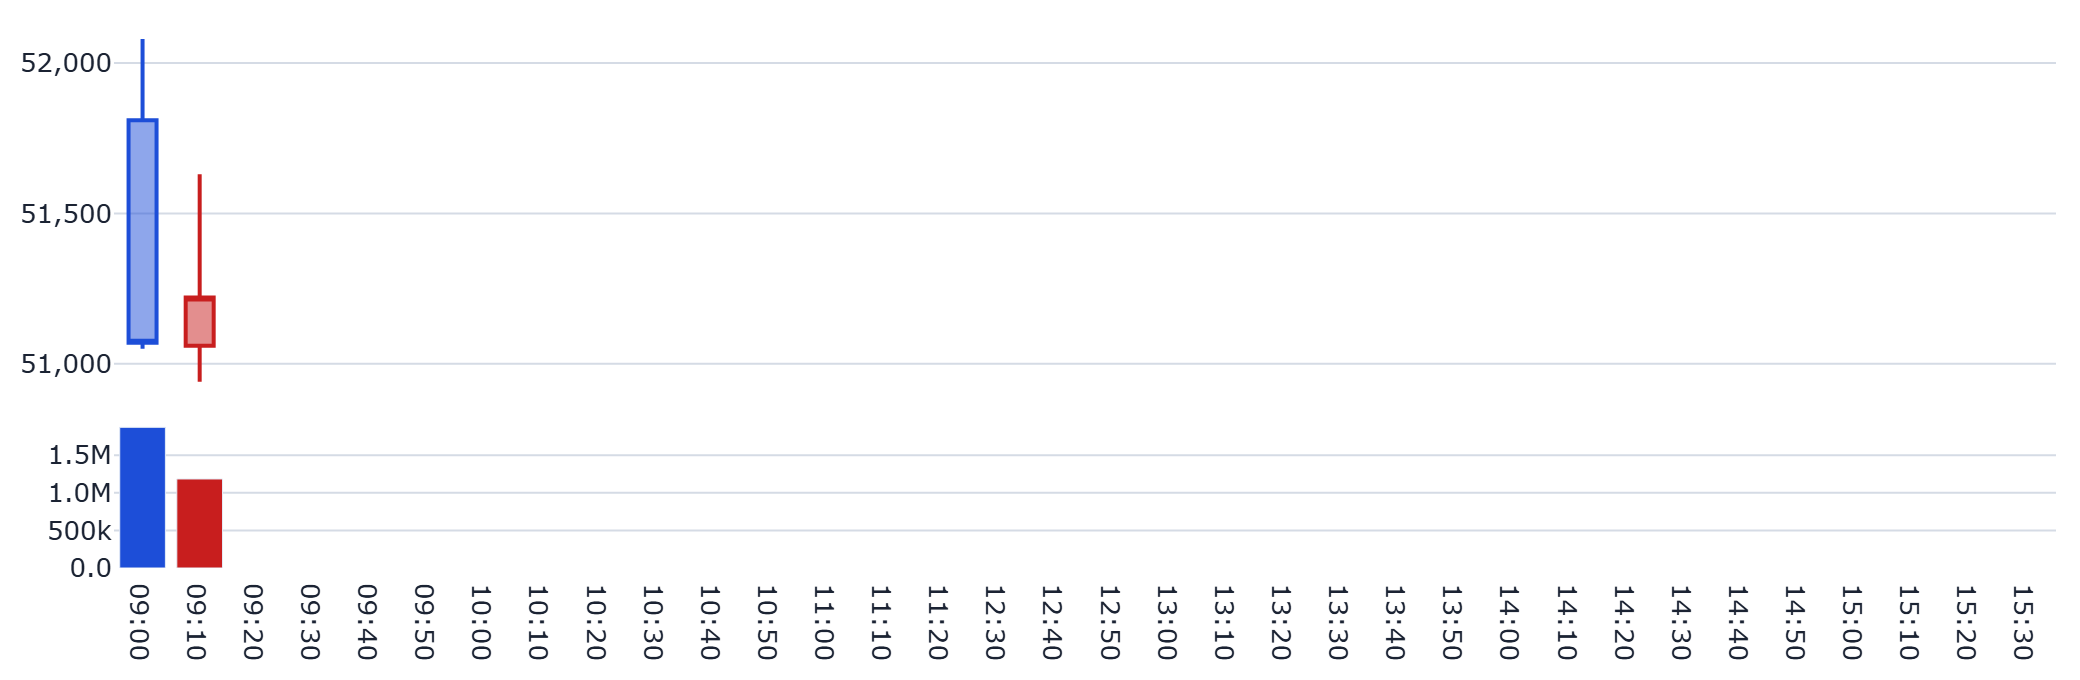
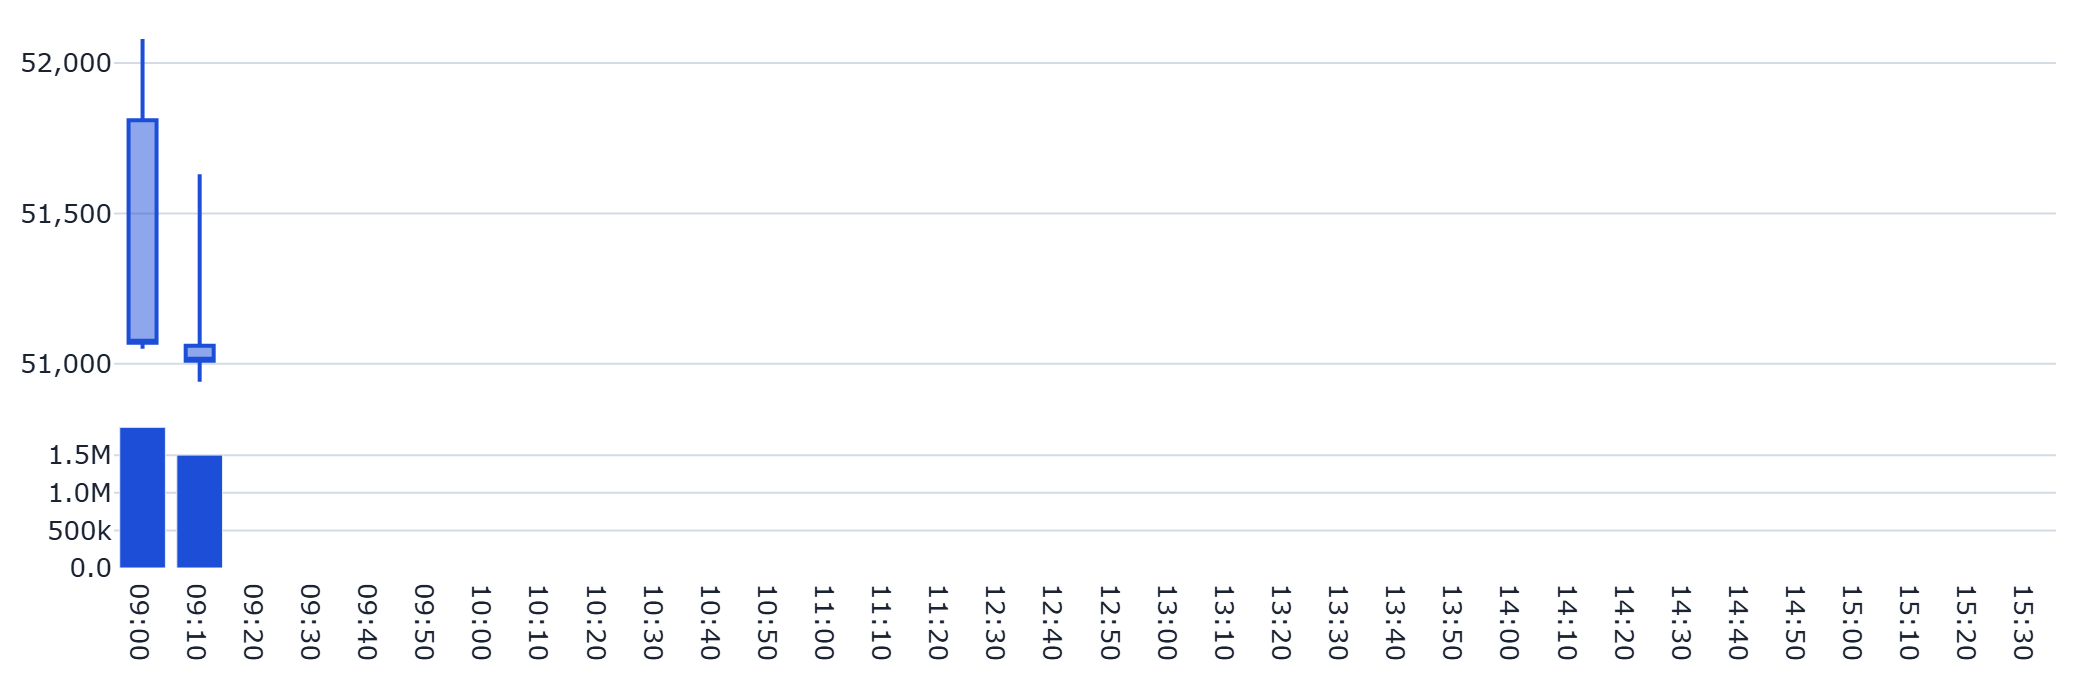
auto: refresh static dashboard (2026-09-17 09:18:49 JST)

Changed region(s): [[0.0625, 0.6485, 0.125, 0.8338], [0.0625, 0.4324, 0.125, 0.5559]]

diff --git a/docs/index.html b/docs/index.html
@@ -146,12 +146,12 @@
       <div class="panel header">
         <span class="symbol">285A</span>
         <span class="company">キオクシアホールディングス</span>
-        <span class="price">51,220円</span>
-        <span class="chg" style="color:#C81E1E">+0.87%</span>
+        <span class="price">51,010円</span>
+        <span class="chg" style="color:#C81E1E">+0.45%</span>
       </div>
       <p class="caption">更新時刻: 2026-09-17T09:03:34（データは1分間隔で自動生成され、このページも
       60秒毎に自動再読み込みされます）</p>
-      <p class='caption'>⚠ データの更新が約13分前から止まっている可能性があります(通常は1分毎に自動生成)。</p>
+      <p class='caption'>⚠ データの更新が約15分前から止まっている可能性があります(通常は1分毎に自動生成)。</p>
       <p id='visit-count-badge' class='caption'>👀 累計閲覧数: 4,742</p>
       <p id='like-button-wrap' class='caption'><button id='like-button' type='button' style='cursor:pointer;border:1px solid var(--border);border-radius:6px;padding:1px 10px;margin-right:6px;background:var(--panel);color:var(--text);font-size:1em;vertical-align:middle'>👍</button><span id='like-count-label'>このダッシュボードが役に立ったら押してください（累計 4 いいね）</span></p>
 
@@ -159,7 +159,7 @@
            (ai_sector_monitor)のtemplates/index.htmlと同じく、AI考察はタブ非依存で
            常時最上部に表示する。 -->
       <h2>🤖 AI考察</h2>
-      <div class='metric-row'><div class='metric-card'><div class='metric-label'>株価</div><div class='metric-value'>51,220円</div><div class='metric-delta'>+440円</div></div><div class='metric-card'><div class='metric-label'>強気比率</div><div class='metric-value'>48.5%</div><div class='metric-delta'>+0.0pt</div></div><div class='metric-card'><div class='metric-label'>弱気比率</div><div class='metric-value'>42.6%</div><div class='metric-delta'>+0.0pt</div></div></div><p class='caption'>前回集計(2026-09-17T08:38:29)との比較</p>
+      <div class='metric-row'><div class='metric-card'><div class='metric-label'>株価</div><div class='metric-value'>51,010円</div><div class='metric-delta'>+230円</div></div><div class='metric-card'><div class='metric-label'>強気比率</div><div class='metric-value'>48.5%</div><div class='metric-delta'>+0.0pt</div></div><div class='metric-card'><div class='metric-label'>弱気比率</div><div class='metric-value'>42.6%</div><div class='metric-delta'>+0.0pt</div></div></div><p class='caption'>前回集計(2026-09-17T08:38:29)との比較</p>
       <div class='ai-box'>キオクシアホールディングス（285A）の掲示板における、前場時点での集計センチメントデータに基づいた分析を報告します。<br>
 <br>
 現在の価格は50,780円で推移しており、前営業日の終値と比較すると、強気・弱気の比率は拮抗した状態にあります。直近の日次推移を見ると、過去数日間で価格の上下や強気・弱気比率が激しく変動しており、投資家心理が一定の方向性に定まっていない様子が見て取れます。<br>
@@ -266,11 +266,11 @@
         <div class="grid2">
           <div class="panel">
             <h3>支持線・抵抗線の目安（SD単位）</h3>
-            <table style='width:100%;border-collapse:collapse;font-size:.92em'><thead><tr><th style='text-align:left'>値幅の目安</th><th style='text-align:left'>上側の水準</th><th style='text-align:left'>下側の水準</th></tr></thead><tbody><tr><td>0.5SD（±2.29%）</td><td>52,393円</td><td>50,047円</td></tr><tr><td>1.0SD（±4.58%）</td><td>53,566円</td><td>48,874円</td></tr><tr><td>1.5SD（±6.87%）</td><td>54,739円</td><td>47,701円</td></tr></tbody></table><p class='caption'>直近14日間の最高値（2026-09-07・59,530円）からの乖離: -13.96%</p><p class='caption'>SDは直近14日間の日次終値リターンの標準偏差（4.58%/日）から算出した値幅の目安であり、到達を予測するものではありません。</p>
+            <table style='width:100%;border-collapse:collapse;font-size:.92em'><thead><tr><th style='text-align:left'>値幅の目安</th><th style='text-align:left'>上側の水準</th><th style='text-align:left'>下側の水準</th></tr></thead><tbody><tr><td>0.5SD（±2.29%）</td><td>52,178円</td><td>49,842円</td></tr><tr><td>1.0SD（±4.58%）</td><td>53,347円</td><td>48,673円</td></tr><tr><td>1.5SD（±6.87%）</td><td>54,515円</td><td>47,505円</td></tr></tbody></table><p class='caption'>直近14日間の最高値（2026-09-07・59,530円）からの乖離: -14.31%</p><p class='caption'>SDは直近14日間の日次終値リターンの標準偏差（4.58%/日）から算出した値幅の目安であり、到達を予測するものではありません。</p>
           </div>
           <div class="panel">
             <h3>市場コンテキスト</h3>
-            <div class='metric-row'><div class='metric-card'><div class='metric-label'>本日の値動きの型</div><div class='metric-value' style='font-size:1.05rem'>トレンド型</div><div class='metric-delta'>不確実性: 普段並み</div></div><div class='metric-card'><div class='metric-label'>値動き ÷ 執行コスト</div><div class='metric-value'>約31.5倍</div><div class='metric-delta'>費用実測2.76bp</div></div></div><p class='caption'>海外ピアの値動き・本日の値動きの型はいずれも事実の記述であり、翌営業日の値動きを予測するものではありません。値動き÷執行コストは値幅の大きさの目安であり、実際に利益を確保できることを意味しません。</p>
+            <div class='metric-row'><div class='metric-card'><div class='metric-label'>本日の値動きの型</div><div class='metric-value' style='font-size:1.05rem'>トレンド型</div><div class='metric-delta'>不確実性: 普段並み</div></div><div class='metric-card'><div class='metric-label'>値動き ÷ 執行コスト</div><div class='metric-value'>約16.3倍</div><div class='metric-delta'>費用実測2.76bp</div></div></div><p class='caption'>海外ピアの値動き・本日の値動きの型はいずれも事実の記述であり、翌営業日の値動きを予測するものではありません。値動き÷執行コストは値幅の大きさの目安であり、実際に利益を確保できることを意味しません。</p>
           </div>
         </div>
         <div class="panel">
@@ -285,7 +285,7 @@
 
       <hr style="border:none;border-top:1px solid var(--border);margin:2rem 0 1rem">
       <p class="caption">⚠ 本情報は掲示板投稿を統計的に集計したものであり、投資助言ではありません。個別の投稿内容は含まれていません。研究・エンタメ用途です。</p>
-      <footer>生成: generate_static_dashboard.py（2026-09-17T09:16:49） /
+      <footer>生成: generate_static_dashboard.py（2026-09-17T09:18:44） /
       画像バックエンド: plotly+kaleido</footer>
     </div>
     <script>(function(){var url="https://script.google.com/macros/s/AKfycbwgSSGQ2n56ohmIYKlNDA1Xe3D8hd3GJbD0U90L4DGtXdb8pqrPokNMHJWjvN1__7bE/exec";var KEY='bbs_visit_counted';var already=sessionStorage.getItem(KEY);var action=already?'read':'hit';var ctrl=(typeof AbortController!=='undefined')?new AbortController():null;var timer=ctrl?setTimeout(function(){ctrl.abort();},5000):null;fetch(url+'?action='+action,{signal:ctrl?ctrl.signal:undefined}).then(function(r){if(timer)clearTimeout(timer);return r.json();}).then(function(data){if(!already)sessionStorage.setItem(KEY,'1');if(data&&typeof data.count==='number'){var el=document.getElementById('visit-count-badge');if(el){el.textContent='\u{1F440} \u7d2f\u8a08\u95b2\u89a7\u6570: '+data.count.toLocaleString();el.style.display='';}}}).catch(function(e){if(timer)clearTimeout(timer);console.warn('visit counter fetch failed (fail-soft):',e);});})();</script><script>(function(){var url="https://script.google.com/macros/s/AKfycbwgSSGQ2n56ohmIYKlNDA1Xe3D8hd3GJbD0U90L4DGtXdb8pqrPokNMHJWjvN1__7bE/exec";var KEY='bbs_liked';var btn=document.getElementById('like-button');var label=document.getElementById('like-count-label');if(!btn||!label)return;function renderLiked(count){btn.disabled=true;btn.style.cursor='default';btn.style.opacity='0.6';btn.textContent='\u2705';label.textContent="\u3044\u3044\u306d\u3057\u307e\u3057\u305f\uff01"+(typeof count==='number'?"\uff08\u7d2f\u8a08 "+count.toLocaleString()+" \u3044\u3044\u306d\uff09":'');}if(localStorage.getItem(KEY)){renderLiked(null);}btn.addEventListener('click',function(){if(localStorage.getItem(KEY))return;btn.disabled=true;var ctrl=(typeof AbortController!=='undefined')?new AbortController():null;var timer=ctrl?setTimeout(function(){ctrl.abort();},5000):null;fetch(url+'?action=like_hit',{signal:ctrl?ctrl.signal:undefined}).then(function(r){if(timer)clearTimeout(timer);return r.json();}).then(function(data){localStorage.setItem(KEY,'1');renderLiked(data&&typeof data.count==='number'?data.count:null);}).catch(function(e){if(timer)clearTimeout(timer);btn.disabled=false;console.warn('like button fetch failed (fail-soft):',e);});});})();</script><script>(function(){var DEFAULT_TAB='overview';function activate(tabName){var buttons=document.querySelectorAll('.tab-bar .tab-btn');var panels=document.querySelectorAll('[data-tab-panel]');if(!buttons.length||!panels.length)return;var matched=false;panels.forEach(function(p){var on=p.getAttribute('data-tab-panel')===tabName;if(on)matched=true;p.classList.toggle('tab-hidden',!on);});if(!matched){panels.forEach(function(p){p.classList.toggle('tab-hidden',p.getAttribute('data-tab-panel')!==DEFAULT_TAB);});tabName=DEFAULT_TAB;}buttons.forEach(function(b){var on=b.getAttribute('data-tab')===tabName;b.classList.toggle('active',on);b.setAttribute('aria-selected',on?'true':'false');});}document.addEventListener('DOMContentLoaded',function(){var bar=document.getElementById('tabBar');if(!bar)return;bar.addEventListener('click',function(e){var btn=e.target.closest('.tab-btn');if(!btn)return;activate(btn.getAttribute('data-tab'));});activate(DEFAULT_TAB);});})();</script></body></html>
